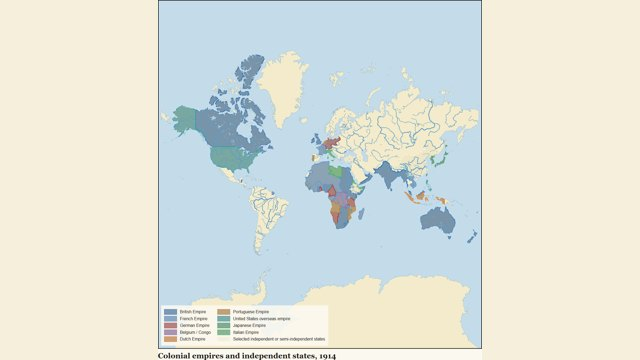
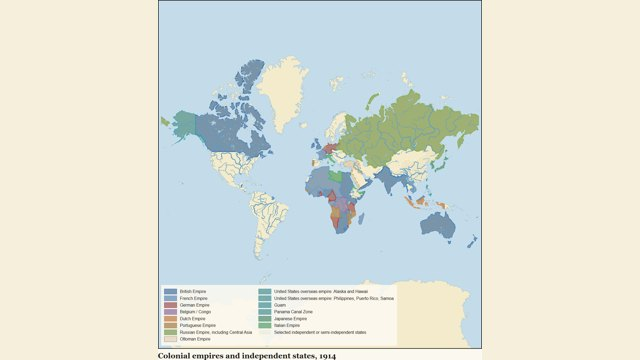
Refine imperialism round four plates
Copilot-Session: 37f2f47f-8b63-49cd-b8ce-cded564ac449

diff --git a/atlas/plates/south-africa-boer-war-union-1899-1913.js b/atlas/plates/south-africa-boer-war-union-1899-1913.js
@@ -1,17 +1,35 @@
 (function(){
- const BRIT="#2f5f93", BOER="#d8a84f", LAND="#8c3b3b", ROAD="#5b4a3f";
- const reserves=[[18.8,-34.2],[20.5,-33.7],[23.3,-33.1],[25.5,-32.7],[27.5,-31.8],[29.5,-30.5],[31.2,-29.2],[31.2,-27.4],[29.7,-28.5],[27.0,-30.0],[24.0,-30.8],[21.0,-31.8],[18.8,-34.2]];
- window.PLATES["south-africa-boer-war-union-1899-1913"]={id:"south-africa-boer-war-union-1899-1913",title:"South Africa: Boer War, Union and land, 1899-1913",head:"Imperialism / South Africa",folio:"102-103",viewer:"imperial/1902/ch-south-africa-boer-war",figures:[{caption:"British colonies, Boer republics and the war",share:0.76,extent:[[15,-36],[33,-21]],projection:"conic",layers:[
-  {id:"cape",type:"area",hist:{year:1900,names:["Cape Colony","Natal"]},colour:BRIT,tier:"core",legend:"British colonies"},
-  {id:"boer",type:"area",hist:{year:1900,names:["Transvaal","Orange Free State"]},colour:BOER,tier:"core",legend:"Boer republics"},
-  {id:"union",type:"area",hist:{year:1914,names:["South Africa"]},fillOpacity:0.16,stroke:BRIT,colour:BRIT,legend:"Union of South Africa, 1910"},
-  {id:"land",type:"area",polygon:reserves,smooth:false,clipToLand:true,pattern:"hatch",colour:LAND,legend:"Natives Land Act reserve belt, 1913 (schematic)"},
-  {id:"brit-advance",type:"route",style:"road",weight:2.5,colour:ROAD,legend:"British advance",path:[[18.42,-33.92],[24.76,-28.74],[26.22,-29.12],[28.19,-25.75]]},
-  {id:"guerrilla",type:"route",style:"dotted",weight:2.2,colour:BOER,legend:"Boer guerrilla phase",path:[[28.19,-25.75],[29.0,-26.6],[26.5,-29.0],[25.7,-30.7],[27.9,-26.2]]},
+ const BRIT="#2f5f93", BOER="#d8a84f", PROT="#8cae7a", LAND="#8c3b3b", ROAD="#5b4a3f";
+ const transkei=[[27.0,-32.6],[29.6,-32.1],[30.4,-31.1],[29.0,-30.5],[27.2,-31.2],[27.0,-32.6]];
+ const ciskei=[[26.7,-33.1],[28.0,-32.9],[28.4,-32.2],[27.3,-32.0],[26.5,-32.5],[26.7,-33.1]];
+ const zululand=[[30.0,-29.4],[31.7,-28.9],[31.6,-27.2],[30.4,-27.0],[29.8,-28.2],[30.0,-29.4]];
+ const venda=[[29.5,-23.3],[31.0,-23.0],[31.3,-22.0],[30.0,-21.8],[29.2,-22.5],[29.5,-23.3]];
+ const pedi=[[29.0,-25.2],[30.5,-25.0],[30.6,-24.2],[29.4,-24.0],[28.8,-24.6],[29.0,-25.2]];
+ const tswana=[[23.0,-27.8],[25.2,-27.3],[25.1,-26.1],[23.4,-25.8],[22.5,-26.6],[23.0,-27.8]];
+ window.PLATES["south-africa-boer-war-union-1899-1913"]={id:"south-africa-boer-war-union-1899-1913",title:"South Africa: Boer War, Union and land, 1899-1913",head:"Imperialism / South Africa",folio:"102-103",viewer:"imperial/1902/ch-south-africa-boer-war",figures:[{caption:"1899: British colonies, Boer republics and protectorates",share:0.50,extent:[[15,-36],[33,-21]],projection:"conic",layers:[
+  {id:"cape",type:"area",hist:{year:1900,names:["Cape Colony","Natal"]},colour:BRIT,tier:"core",legend:"British colonies: Cape Colony and Natal"},
+  {id:"boer",type:"area",hist:{year:1900,names:["Transvaal","Orange Free State"]},colour:BOER,tier:"core",legend:"Boer republics: ZAR and Orange Free State"},
+  {id:"basuto",type:"area",hist:{year:1900,names:["Basutoland"]},colour:PROT,tier:"influence",legend:"British protectorate: Basutoland"},
+  {id:"bechu",type:"point",symbol:"treaty",colour:PROT,at:[24.0,-24.5],name:"Bechuanaland Protectorate",labelPos:"w"},
+  {id:"advance",type:"route",style:"road",weight:2.5,colour:ROAD,legend:"British advance, Feb-Jun 1900",path:[[18.42,-33.92],[24.76,-28.74],[26.22,-29.12],[28.04,-26.20],[28.19,-25.75]]},
+  {id:"kimberley",type:"point",symbol:"siege",at:[24.76,-28.74],name:"Kimberley relieved",labelPos:"w",tag:{text:"Feb 1900",colour:"#e8806a"}},
+  {id:"ladysmith",type:"point",symbol:"siege",at:[29.78,-28.56],name:"Ladysmith relieved",labelPos:"e",tag:{text:"Feb 1900",colour:"#e8806a"}},
+  {id:"mafeking",type:"point",symbol:"siege",at:[25.64,-25.86],name:"Mafeking relieved",labelPos:"w",tag:{text:"May 1900",colour:"#e8806a"}},
+  {id:"bloem",type:"point",symbol:"capital",at:[26.22,-29.12],name:"Bloemfontein",labelPos:"s",tag:{text:"Mar 1900",colour:"#f1c75b"}},
+  {id:"johannesburg",type:"point",symbol:"city",at:[28.04,-26.20],name:"Johannesburg",labelPos:"s"},
+  {id:"pretoria",type:"point",symbol:"capital",at:[28.19,-25.75],name:"Pretoria",labelPos:"n",tag:{text:"Jun 1900",colour:"#f1c75b"}},
+  {id:"camp-bloem",type:"point",symbol:"power",colour:LAND,at:[26.22,-29.12],name:"camp: Bloemfontein",labelPos:"e"},
+  {id:"camp-kroon",type:"point",symbol:"power",colour:LAND,at:[27.23,-27.65],name:"camp: Kroonstad",labelPos:"e"},
+  {id:"camp-stand",type:"point",symbol:"power",colour:LAND,at:[29.24,-26.94],name:"camp: Standerton",labelPos:"e"}
+ ],legend:{position:"bottom-left",columns:1}},{caption:"1910 Union and 1913 scheduled reserve areas",share:0.50,extent:[[15,-36],[33,-21]],projection:"conic",layers:[
+  {id:"union",type:"area",hist:{year:1914,names:["South Africa"]},colour:BRIT,tier:"core",legend:"Union of South Africa, 1910"},
+  {id:"reserve-transkei",type:"area",polygon:transkei,smooth:false,clipToLand:true,pattern:"hatch",colour:LAND,legend:"Scheduled reserves, 1913: scattered areas"},
+  {id:"reserve-ciskei",type:"area",polygon:ciskei,smooth:false,clipToLand:true,pattern:"hatch",colour:LAND},
+  {id:"reserve-zulu",type:"area",polygon:zululand,smooth:false,clipToLand:true,pattern:"hatch",colour:LAND},
+  {id:"reserve-venda",type:"area",polygon:venda,smooth:false,clipToLand:true,pattern:"hatch",colour:LAND},
+  {id:"reserve-pedi",type:"area",polygon:pedi,smooth:false,clipToLand:true,pattern:"hatch",colour:LAND},
+  {id:"reserve-tswana",type:"area",polygon:tswana,smooth:false,clipToLand:true,pattern:"hatch",colour:LAND},
   {id:"cape-town",type:"point",symbol:"port",at:[18.42,-33.92],name:"Cape Town",labelPos:"e"},
-  {id:"bloem",type:"point",symbol:"capital",at:[26.22,-29.12],name:"Bloemfontein",labelPos:"w",tag:{text:"1900",colour:"#e8806a"}},
-  {id:"pretoria",type:"point",symbol:"capital",at:[28.19,-25.75],name:"Pretoria",labelPos:"e",tag:{text:"1900",colour:"#e8806a"}},
-  {id:"mafeking",type:"point",symbol:"battle",at:[25.64,-25.86],name:"Mafeking",labelPos:"w"},
-  {id:"camps",type:"point",symbol:"battle",at:[27.7,-27.7],name:"concentration camps",labelPos:"e",tag:{text:"Boer + African civilians",colour:"#e8806a"}}
- ],legend:{position:"bottom-left",columns:1}},{caption:"From war to white union",kind:"diagram",share:0.24,diagram:{height:0.62,nodes:[{id:"war",label:"1899-1902 Boer War",x:0.27,y:0.10,w:0.33,h:0.13,colour:BOER,strong:true},{id:"camps2",label:"camps hold Boer and African civilians",x:0.73,y:0.10,w:0.34,h:0.13,colour:LAND},{id:"union2",label:"1910 Union under white franchise",x:0.50,y:0.42,w:0.64,h:0.13,colour:BRIT,strong:true},{id:"land2",label:"1913 Land Act restricts African landholding",x:0.50,y:0.72,w:0.68,h:0.13,colour:LAND}],arrows:[{id:"a1",from:"war",to:"union2"},{id:"a2",from:"camps2",to:"union2"},{id:"a3",from:"union2",to:"land2"}]}} ],text:{intro:"South Africa links imperial war to a state structure that later hardened into apartheid.",sections:[{heading:"War and settlement",entries:[{date:"1899-1902",text:"Britain defeats the Transvaal and Orange Free State. The war includes sieges, guerrilla fighting and concentration camps for Boer and African civilians.",refs:["cape","boer","brit-advance","guerrilla","cape-town","bloem","pretoria","mafeking","camps","war","camps2"]},{date:"1910-1913",text:"Union joins the colonies and former republics under white political control; the Natives Land Act sharply limits African landholding.",refs:["union","land","union2","land2"]}]}]},sources:["Penguin Atlas Vol. 2 pp. 102-103; historical-basemaps world_1900 and world_1914"]};
+  {id:"pretoria2",type:"point",symbol:"capital",at:[28.19,-25.75],name:"Pretoria",labelPos:"e"}
+ ],legend:{position:"bottom-left",columns:1}} ],text:{intro:"South Africa links imperial war to a state structure that later hardened into apartheid.",sections:[{heading:"War and settlement",entries:[{date:"1899-1902",text:"In 1899 British Cape Colony and Natal faced the Transvaal and Orange Free State, with Basutoland filled from the 1900 historical layer and Bechuanaland marked as a protectorate label because the layer has no separate polygon. British columns relieved Kimberley, Ladysmith and Mafeking before taking Bloemfontein, Johannesburg and Pretoria.",refs:["cape","boer","basuto","bechu","advance","kimberley","ladysmith","mafeking","bloem","johannesburg","pretoria"]},{date:"1900-1902",text:"Concentration camps for Boer and African civilians are marked at Bloemfontein, Kroonstad and Standerton with a distinct camp symbol rather than battle marks.",refs:["camp-bloem","camp-kroon","camp-stand"]},{date:"1910-1913",text:"Union joins the four provinces under white political control; the Natives Land Act schedules scattered reserve areas including Transkei, Ciskei, Zululand, northern Transvaal and the Bechuanaland border.",refs:["union","reserve-transkei","reserve-ciskei","reserve-zulu","reserve-venda","reserve-pedi","reserve-tswana","cape-town","pretoria2"]}]}]},sources:["Penguin Atlas Vol. 2 pp. 102-103; historical-basemaps world_1900 and world_1914"]};
 })();

diff --git a/atlas/plates/balkan-crises-1908-1913.js b/atlas/plates/balkan-crises-1908-1913.js
@@ -1,27 +1,35 @@
 (function(){
- const AUS="#d8a84f", SER="#b36b2e", BUL="#3f8f5b", GRE="#4c78a8", OTT="#9a6a32", WAR="#8c3b3b", ROAD="#5b4a3f";
+ const AUS="#d8a84f", SER="#b36b2e", BUL="#3f8f5b", GRE="#4c78a8", OTT="#9a6a32", ALB="#8cae7a", WAR="#8c3b3b", ROAD="#5b4a3f";
+ const ottEurope1908=[[19.0,42.6],[20.6,42.5],[22.5,42.3],[24.5,42.35],[28.9,42.2],[28.9,40.7],[26.3,40.4],[24.3,40.1],[22.4,39.7],[20.0,39.2],[19.0,40.4],[19.0,42.6]];
+ const greece1908=[[19.5,39.95],[21.4,39.95],[23.6,40.1],[23.8,36.0],[19.5,36.0],[19.5,39.95]];
  const macedonia=[[20.7,42.4],[22.0,42.3],[23.4,42.0],[24.2,41.6],[23.8,40.8],[22.7,40.3],[21.5,40.5],[20.6,41.2],[20.7,42.4]];
+ const southDobruja=[[27.4,44.2],[28.7,44.1],[28.7,43.6],[27.5,43.5],[27.4,44.2]];
  window.PLATES["balkan-crises-1908-1913"]={id:"balkan-crises-1908-1913",title:"The Balkan crises, 1908-1913",head:"Imperialism / Balkans",folio:"120-121",viewer:"imperial/1913/ch-balkan-crises",figures:[{caption:"1908: annexation crisis and Ottoman Europe",share:0.50,extent:[[12,35],[31,48]],projection:"conic",layers:[
-  {id:"austria",type:"area",hist:{year:1914,names:["Austro-Hungarian Empire"]},colour:AUS,tier:"influence",legend:"Austria-Hungary"},
-  {id:"ottoman-1908",type:"area",hist:{year:1914,names:["Ottoman Empire"]},colour:OTT,tier:"influence",legend:"Ottoman Empire"},
-  {id:"serbia-1908",type:"area",hist:{year:1914,names:["Serbia","Montenegro","Romania"]},colour:SER,tier:"core",legend:"Serbia, Montenegro, Romania"},
-  {id:"bulgaria-1908",type:"area",hist:{year:1914,names:["Bulgaria"]},colour:BUL,tier:"core",legend:"Bulgaria"},
-  {id:"greece-1908",type:"area",hist:{year:1914,names:["Greece"]},colour:GRE,tier:"core",legend:"Greece"},
-  {id:"bosnia",type:"point",symbol:"treaty",at:[18.41,43.86],name:"Bosnia annexed",labelPos:"n",tag:{text:"1908",colour:"#f1c75b"}},
-  {id:"sarajevo",type:"point",symbol:"capital",at:[18.41,43.86],name:"Sarajevo",labelPos:"w"},
+  {id:"austria",type:"area",hist:{year:1900,names:["Austria Hungary"]},colour:AUS,tier:"influence",legend:"Austria-Hungary"},
+  {id:"bosnia",type:"area",hist:{year:1900,names:["Bosnia-Herzegovina"]},pattern:"hatch",colour:AUS,legend:"Bosnia-Herzegovina annexed, 1908"},
+  {id:"ottoman-1908",type:"area",hist:{year:1900,names:["Ottoman Empire"]},clipPolygon:ottEurope1908,colour:OTT,tier:"core",legend:"Ottoman Europe: Albania, Kosovo, Macedonia, Epirus and Thrace"},
+  {id:"serbia-1908",type:"area",hist:{year:1900,names:["Serbia","Montenegro","Romania"]},colour:SER,tier:"core",legend:"Serbia, Montenegro, Romania before the Balkan Wars"},
+  {id:"bulgaria-1908",type:"area",hist:{year:1900,names:["Bulgaria"]},colour:BUL,tier:"core",legend:"Bulgaria before the Balkan Wars"},
+  {id:"greece-1908",type:"area",hist:{year:1900,names:["Greece"]},clipPolygon:greece1908,colour:GRE,tier:"core",legend:"Greece before Epirus and Macedonia"},
+  {id:"sarajevo",type:"point",symbol:"treaty",at:[18.41,43.86],name:"Bosnia annexed",labelPos:"n",tag:{text:"1908",colour:"#f1c75b"}},
   {id:"belgrade",type:"point",symbol:"capital",at:[20.46,44.82],name:"Belgrade",labelPos:"e"},
+  {id:"sofia-1908",type:"point",symbol:"capital",at:[23.32,42.70],name:"Sofia",labelPos:"s"},
+  {id:"athens-1908",type:"point",symbol:"capital",at:[23.73,37.98],name:"Athens",labelPos:"e"},
   {id:"istanbul",type:"point",symbol:"capital",at:[28.98,41.01],name:"Constantinople",labelPos:"w"}
- ],legend:{position:"bottom-left",columns:1}},{caption:"1912-13: two Balkan Wars",share:0.50,extent:[[12,35],[31,48]],projection:"conic",layers:[
+ ],legend:{position:"bottom-left",columns:1}},{caption:"1912-13: Balkan Wars and the new settlement",share:0.50,extent:[[12,35],[31,48]],projection:"conic",layers:[
   {id:"ottoman",type:"area",hist:{year:1914,names:["Ottoman Empire"]},colour:OTT,tier:"influence",legend:"Ottoman remnant in Europe"},
-  {id:"serbia",type:"area",hist:{year:1914,names:["Serbia","Montenegro"]},colour:SER,tier:"core",legend:"Serbia and Montenegro"},
-  {id:"bulgaria",type:"area",hist:{year:1914,names:["Bulgaria"]},colour:BUL,tier:"core",legend:"Bulgaria"},
-  {id:"greece",type:"area",hist:{year:1914,names:["Greece"]},colour:GRE,tier:"core",legend:"Greece"},
-  {id:"macedonia",type:"area",polygon:macedonia,smooth:false,clipToLand:true,pattern:"hatch",colour:WAR,legend:"Macedonia contested by the victors"},
-  {id:"league",type:"route",style:"road",weight:2.4,colour:ROAD,legend:"Balkan League advance, 1912",path:[[23.32,42.70],[24.75,42.13],[26.56,41.68],[28.98,41.01]]},
-  {id:"second",type:"route",style:"dashed",weight:2.4,colour:WAR,legend:"Second Balkan War, 1913",path:[[23.32,42.70],[22.93,41.99],[20.46,44.82],[23.73,37.98]]},
+  {id:"serbia",type:"area",hist:{year:1914,names:["Serbia","Montenegro","Romania"]},colour:SER,tier:"core",legend:"Serbia, Montenegro and Romania, 1914"},
+  {id:"bulgaria",type:"area",hist:{year:1914,names:["Bulgaria"]},colour:BUL,tier:"core",legend:"Bulgaria, 1914"},
+  {id:"greece",type:"area",hist:{year:1914,names:["Greece"]},colour:GRE,tier:"core",legend:"Greece, 1914"},
+  {id:"albania",type:"area",hist:{year:1914,names:["Albania"]},colour:ALB,tier:"core",legend:"Albania independent, 1912"},
+  {id:"macedonia-loss",type:"area",polygon:macedonia,smooth:false,clipToLand:true,pattern:"hatch",colour:WAR,legend:"Bulgarian losses in Macedonia, 1913"},
+  {id:"dobruja-loss",type:"area",polygon:southDobruja,smooth:false,clipToLand:true,pattern:"hatch",colour:WAR,legend:"Southern Dobruja to Romania, 1913"},
+  {id:"serb-advance",type:"route",style:"road",weight:2.2,colour:ROAD,legend:"Balkan League advances on Ottoman Europe",path:[[20.46,44.82],[21.43,41.99],[22.94,40.64]]},
+  {id:"bulgar-advance",type:"route",style:"road",weight:2.2,colour:ROAD,path:[[23.32,42.70],[26.56,41.68],[28.98,41.01]]},
+  {id:"greek-advance",type:"route",style:"road",weight:2.2,colour:ROAD,path:[[23.73,37.98],[22.94,40.64]]},
   {id:"sofia",type:"point",symbol:"capital",at:[23.32,42.70],name:"Sofia",labelPos:"n"},
   {id:"adrianople",type:"point",symbol:"battle",at:[26.56,41.68],name:"Adrianople",labelPos:"e",tag:{text:"1913",colour:"#e8806a"}},
   {id:"skopje",type:"point",symbol:"battle",at:[21.43,41.99],name:"Skopje",labelPos:"w"},
   {id:"salonika",type:"point",symbol:"port",at:[22.94,40.64],name:"Salonika",labelPos:"e",tag:{text:"1912",colour:"#f1c75b"}}
- ],legend:{position:"bottom-left",columns:1}} ],text:{intro:"The Balkan crises begin with the Bosnian annexation and end with Ottoman Europe reduced and the Balkan victors fighting over Macedonia.",sections:[{heading:"Crises",entries:[{date:"1908",text:"Austria-Hungary annexes Bosnia-Herzegovina, angering Serbia and unsettling the post-Berlin order around Serbia, Bulgaria, Greece and the Ottoman Empire.",refs:["austria","ottoman-1908","serbia-1908","bulgaria-1908","greece-1908","bosnia","sarajevo","belgrade","istanbul"]},{date:"1912-1913",text:"The Balkan League defeats the Ottoman Empire; then Bulgaria, Serbia, Greece and Montenegro fight each other over Macedonia and the settlement.",refs:["ottoman","serbia","bulgaria","greece","league","second","macedonia","sofia","adrianople","skopje","salonika"]}]}]},sources:["Penguin Atlas Vol. 2 pp. 120-121; historical-basemaps world_1914"]};
+ ],legend:{position:"bottom-left",columns:1}}],text:{intro:"The Balkan crises begin with the Bosnian annexation and end with Ottoman Europe reduced and the Balkan victors fighting over Macedonia.",sections:[{heading:"Crises",entries:[{date:"1908",text:"In 1908 the Ottomans still held Albania, Kosovo, Macedonia, Epirus and Thrace; Austria-Hungary annexed Bosnia-Herzegovina while Serbia, Bulgaria and Greece remained within their pre-war borders.",refs:["austria","bosnia","ottoman-1908","serbia-1908","bulgaria-1908","greece-1908","sarajevo","belgrade","sofia-1908","athens-1908","istanbul"]},{date:"1912-1913",text:"The Balkan League advances from Serbia, Bulgaria and Greece into Ottoman Europe. Albania becomes independent, while Bulgaria loses Macedonia to Serbia and Greece and Southern Dobruja to Romania.",refs:["ottoman","serbia","bulgaria","greece","albania","macedonia-loss","dobruja-loss","serb-advance","bulgar-advance","greek-advance","sofia","adrianople","skopje","salonika"]}]}]},sources:["Penguin Atlas Vol. 2 pp. 120-121; historical-basemaps world_1900 and world_1914"]};
 })();

diff --git a/atlas/plates/colonial-empires-world-1914.js b/atlas/plates/colonial-empires-world-1914.js
@@ -1,15 +1,22 @@
 (function(){
- const BRIT="#2f5f93", FRA="#4c78a8", GER="#8c3b3b", BEL="#7a5a8c", DUT="#b36b2e", POR="#9a6a32", USA="#2f7f86", JPN="#387a5b", ITA="#3f8f5b", FREE="#d8d0b0";
- window.PLATES["colonial-empires-world-1914"]={id:"colonial-empires-world-1914",title:"The world's colonial empires in 1914",head:"Imperialism / world empires",folio:"98-99",viewer:"imperial/1914/part-colonial-empires",figures:[{caption:"Colonial empires and independent states, 1914",share:0.76,extent:[[-180,-55],[180,75]],projection:"equalEarth",layers:[
+ const BRIT="#2f5f93", FRA="#4c78a8", GER="#8c3b3b", BEL="#7a5a8c", DUT="#b36b2e", POR="#9a6a32", USA="#2f7f86", JPN="#387a5b", ITA="#3f8f5b", RUS="#6b8c3f", OTT="#9a6a32", FREE="#d8d0b0";
+ const canal=[[-80.1,9.4],[-79.2,9.4],[-79.2,8.7],[-80.1,8.7],[-80.1,9.4]];
+ const guam=[[144.5,13.7],[144.9,13.7],[144.9,13.2],[144.5,13.2],[144.5,13.7]];
+ window.PLATES["colonial-empires-world-1914"]={id:"colonial-empires-world-1914",title:"The world's colonial empires in 1914",head:"Imperialism / world empires",folio:"98-99",viewer:"imperial/1914/part-colonial-empires",figures:[{caption:"Colonial empires and independent states, 1914",share:0.76,extent:[[-180,-56],[180,78]],projection:"equalEarth",layers:[
   {id:"british",type:"area",hist:{year:1914,names:["United Kingdom of Great Britain and Ireland","Canada","Australia","New Zealand","South Africa","British Raj","British East Africa","British Somaliland","Anglo-Egyptian Sudan","Egypt","Nigeria","Gold Coast","Sierra Leone","Gambia, The","Uganda","Rhodesia","Malaya","Hong Kong","Ceylon","Fiji","Malta","Belize"]},colour:BRIT,tier:"core",legend:"British Empire"},
   {id:"french",type:"area",hist:{year:1914,names:["France","Algeria","Tunisia","Morocco","French West Africa","French Equatorial Africa","Madagascar (France)","French Indochina","French Guiana"]},colour:FRA,tier:"core",legend:"French Empire"},
   {id:"german",type:"area",hist:{year:1914,names:["German Empire","German South-West Africa","German E. Africa (Tanganyika)","Kamerun","Togoland","Samoa"]},colour:GER,tier:"core",legend:"German Empire"},
   {id:"belgian",type:"area",hist:{year:1914,names:["Belgium","Belgian Congo"]},colour:BEL,tier:"core",legend:"Belgium / Congo"},
   {id:"dutch",type:"area",hist:{year:1914,names:["Netherlands","Netherlands Indies","Netherlands Antilles"]},colour:DUT,tier:"core",legend:"Dutch Empire"},
   {id:"portuguese",type:"area",hist:{year:1914,names:["Portugal","Angola","Mozambique","Portuguese Guinea"]},colour:POR,tier:"core",legend:"Portuguese Empire"},
-  {id:"us",type:"area",hist:{year:1914,names:["United States","Philippines","Puerto Rico","American Samoa"]},colour:USA,tier:"core",legend:"United States overseas empire"},
+  {id:"russia",type:"area",hist:{year:1914,names:["Russian Empire"]},colour:RUS,tier:"core",legend:"Russian Empire, including Central Asia"},
+  {id:"ottoman",type:"area",hist:{year:1914,names:["Ottoman Empire"]},colour:OTT,tier:"influence",legend:"Ottoman Empire"},
+  {id:"us-ak-hi",type:"area",regions:["US-AK","US-HI"],colour:USA,tier:"core",legend:"United States overseas empire: Alaska and Hawaii"},
+  {id:"us-overseas",type:"area",hist:{year:1914,names:["Philippines","Puerto Rico","American Samoa"]},colour:USA,tier:"core",legend:"United States overseas empire: Philippines, Puerto Rico, Samoa"},
+  {id:"guam",type:"area",polygon:guam,smooth:false,clipToLand:true,colour:USA,tier:"core",legend:"Guam"},
+  {id:"canal-zone",type:"area",polygon:canal,smooth:false,clipToLand:true,colour:USA,tier:"core",legend:"Panama Canal Zone"},
   {id:"japan",type:"area",hist:{year:1914,names:["Empire of Japan"]},colour:JPN,tier:"core",legend:"Japanese Empire"},
   {id:"italy",type:"area",hist:{year:1914,names:["Kingdom of Italy","Libya","Eritrea","Italian Somaliland"]},colour:ITA,tier:"core",legend:"Italian Empire"},
-  {id:"independent",type:"area",hist:{year:1914,names:["Abyssinia","Liberia","Ottoman Empire","Manchu Empire"]},colour:FREE,tier:"influence",legend:"Selected independent or semi-independent states"}
- ],legend:{position:"bottom-left",columns:2}},{caption:"Imperial rule was not one thing",kind:"diagram",share:0.24,diagram:{height:0.62,nodes:[{id:"settler",label:"settler dominions: Canada, Australia, South Africa",x:0.26,y:0.10,w:0.38,h:0.13,colour:BRIT},{id:"raj",label:"bureaucratic empire: India, railways and famine",x:0.73,y:0.10,w:0.36,h:0.13,colour:BRIT},{id:"terror",label:"extreme violence: Congo rubber; Herero and Nama genocide",x:0.50,y:0.40,w:0.76,h:0.13,colour:GER,strong:true},{id:"late",label:"late empires: U.S., Japan, Italy",x:0.50,y:0.70,w:0.52,h:0.13,colour:JPN}]}}],text:{intro:"The 1914 world map shows empire at its widest formal extent, but the legal and lived forms of rule differed sharply.",sections:[{heading:"Empires",entries:[{date:"1914",text:"British, French, German, Belgian, Dutch, Portuguese, U.S., Japanese and Italian empires are shown as separate systems rather than one colonial colour.",refs:["british","french","german","belgian","dutch","portuguese","us","japan","italy","independent"]},{date:"1914",text:"Settler dominions, bureaucratic India, concessionary violence in Congo, genocidal war in German South-West Africa and newer U.S./Japanese/Italian empires were different forms of imperial power.",refs:["settler","raj","terror","late"]}]}]},sources:["Penguin Atlas Vol. 2 pp. 98-99; historical-basemaps world_1914"]};
+  {id:"independent",type:"area",hist:{year:1914,names:["Abyssinia","Liberia","Manchu Empire"]},colour:FREE,tier:"influence",legend:"Selected independent or semi-independent states"}
+ ],legend:{position:"bottom-left",columns:2}},{caption:"Approx. share of world land area by empire, 1914",kind:"diagram",share:0.24,diagram:{height:0.62,nodes:[{id:"british-share",label:"British Empire approx. 23%",x:0.50,y:0.18,w:0.76,h:0.13,colour:BRIT,strong:true},{id:"russian-share",label:"Russian Empire approx. 17%",x:0.42,y:0.40,w:0.56,h:0.13,colour:RUS,strong:true},{id:"french-share",label:"French Empire approx. 9%",x:0.32,y:0.62,w:0.34,h:0.13,colour:FRA},{id:"note-share",label:"rough shares; land empires and overseas empires shown together",x:0.50,y:0.84,w:0.72,h:0.10,colour:FREE}]}}],text:{intro:"The 1914 world map shows empire at its widest formal extent, but the legal and lived forms of rule differed sharply.",sections:[{heading:"Empires",entries:[{date:"1914",text:"British, French, Russian, Ottoman, German, Belgian, Dutch, Portuguese, U.S., Japanese and Italian empires are shown as separate systems rather than one colonial colour.",refs:["british","french","russia","ottoman","german","belgian","dutch","portuguese","us-ak-hi","us-overseas","guam","canal-zone","japan","italy","independent"]},{date:"1914",text:"Approximate land-area shares put Britain near 23%, Russia near 17% and France near 9%; the diagram labels them as rough figures.",refs:["british-share","russian-share","french-share","note-share"]}]}]},sources:["Penguin Atlas Vol. 2 pp. 98-99; historical-basemaps world_1914"]};
 })();

diff --git a/atlas/plates/scramble-for-africa-1880-1914.js b/atlas/plates/scramble-for-africa-1880-1914.js
@@ -1,6 +1,6 @@
 (function(){
  const BRIT="#2f5f93", FRA="#4c78a8", GER="#8c3b3b", BEL="#7a5a8c", POR="#9a6a32", ITA="#3f8f5b", FREE="#7a6b42", ROAD="#5b4a3f";
- window.PLATES["scramble-for-africa-1880-1914"]={id:"scramble-for-africa-1880-1914",title:"The Scramble for Africa, 1880-1914",head:"Imperialism / Africa",folio:"98-99",viewer:"imperial/1900/ch-scramble-africa",figures:[{caption:"Africa before and after the scramble",kind:"small-multiples",share:0.76,extent:[[-20,-35],[55,38]],projection:"mercator",layers:[{id:"load-1880",type:"area",hist:{year:1880,names:["Egypt"]},colour:FREE,opacity:0,edge:false},{id:"load-1914",type:"area",hist:{year:1914,names:["Egypt"]},colour:FREE,opacity:0,edge:false}],panelAspect:0.95,panels:[{caption:"1880: before formal partition",layers:[
+ window.PLATES["scramble-for-africa-1880-1914"]={id:"scramble-for-africa-1880-1914",title:"The Scramble for Africa, 1880-1914",head:"Imperialism / Africa",folio:"98-99",viewer:"imperial/1900/ch-scramble-africa",figures:[{caption:"Africa before and after the scramble; Berlin Conference note, 1884-85",kind:"small-multiples",share:0.76,extent:[[-20,-35],[55,38]],projection:"mercator",layers:[{id:"load-1880",type:"area",hist:{year:1880,names:["Egypt"]},colour:FREE,opacity:0,edge:false},{id:"load-1914",type:"area",hist:{year:1914,names:["Egypt"]},colour:FREE,opacity:0,edge:false}],panelAspect:0.95,panels:[{caption:"1880: before formal partition",layers:[
   {id:"af-1880",type:"area",hist:{year:1880,names:["Egypt","Ethiopia","Sokoto Caliphate","Tukular Caliphate","Asante","Dahomey","Liberia","Kanem-Bornu","Buganda","Sultanate of Zanzibar","Zululand","Transvaal","Orange Free State"]},colour:FREE,tier:"core",legend:"African states and settler republics"},
   {id:"eu-1880",type:"area",hist:{year:1880,names:["Algeria (FR)","Cape Colony","Natal","Angola (Portugal)","Mozambique","Portuguese Guinea"]},colour:BRIT,tier:"influence",legend:"Older European holdings"}
 ]},{caption:"1914: partitioned continent",layers:[
@@ -12,12 +12,9 @@
   {id:"italian-africa",type:"area",hist:{year:1914,names:["Libya","Eritrea","Italian Somaliland"]},colour:ITA,tier:"core",legend:"Italian Africa"},
   {id:"free-africa",type:"area",hist:{year:1914,names:["Abyssinia","Liberia"]},colour:FREE,tier:"core",legend:"Ethiopia and Liberia"},
   {id:"congo-terror",type:"area",hist:{year:1914,names:["Belgian Congo"]},pattern:"hatch",colour:BEL,legend:"Congo rubber terror under Leopold's regime"},
-  {id:"gswa-genocide",type:"area",hist:{year:1914,names:["German South-West Africa"]},pattern:"crosshatch",colour:GER,legend:"Herero and Nama genocide, 1904-08"}
-]}],legend:{position:"bottom-left",columns:1}},{caption:"Crises and battles",share:0.24,extent:[[-20,-35],[55,38]],projection:"mercator",layers:[
-  {id:"berlin",type:"point",symbol:"treaty",at:[13.40,52.52],name:"Berlin Conference",tag:{text:"1884-85",colour:"#f1c75b"}},
+  {id:"gswa-genocide",type:"area",hist:{year:1914,names:["German South-West Africa"]},pattern:"crosshatch",colour:GER,legend:"Herero and Nama genocide, 1904-08"},
   {id:"fashoda",type:"point",symbol:"battle",at:[32.12,9.88],name:"Fashoda",labelPos:"w",tag:{text:"1898",colour:"#e8806a"}},
   {id:"adwa",type:"point",symbol:"battle",at:[38.97,14.03],name:"Adwa",labelPos:"e",tag:{text:"1896",colour:"#e8806a"}},
-  {id:"boer",type:"point",symbol:"battle",at:[28.19,-25.75],name:"Boer War",tag:{text:"1899-1902",colour:"#e8806a"}},
-  {id:"cape-cairo",type:"route",style:"dotted",colour:ROAD,legend:"British Cape-to-Cairo idea",path:[[18.42,-33.92],[28.19,-25.75],[31.24,30.04]]}
-],legend:{position:"bottom-left",columns:1}}],text:{intro:"The scramble is easiest to see as a before-and-after: a continent of African states and older coastal holdings in 1880 becomes mostly formal European empire by 1914.",sections:[{heading:"Partition",entries:[{date:"1880",text:"Before partition, African states and settler republics remain visible alongside older coastal and settler colonies.",refs:["af-1880","eu-1880"]},{date:"1914",text:"British, French, German, Belgian, Portuguese and Italian African empires are shown from the 1914 historical layer, with Ethiopia and Liberia outside formal colonization.",refs:["british-africa","french-africa","german-africa","belgian-congo","portuguese-africa","italian-africa","free-africa"]},{date:"1885-1908",text:"Leopold's Congo rubber terror and the Herero and Nama genocide in German South-West Africa are marked as extreme cases, not the whole story of empire.",refs:["congo-terror","gswa-genocide"]},{date:"1884-1902",text:"Berlin, Fashoda, Adwa and the Boer War show diplomacy, rivalry and African military resistance.",refs:["berlin","fashoda","adwa","boer","cape-cairo"]}]}]},sources:["Penguin Atlas Vol. 2 pp. 98-99; historical-basemaps world_1880 and world_1914"]};
+  {id:"boer",type:"point",symbol:"battle",at:[28.19,-25.75],name:"Boer War",labelPos:"e",tag:{text:"1899-1902",colour:"#e8806a"}}
+]}],legend:{position:"bottom-left",columns:1}}],text:{intro:"The scramble is easiest to see as a before-and-after: a continent of African states and older coastal holdings in 1880 becomes mostly formal European empire by 1914.",sections:[{heading:"Partition",entries:[{date:"1880",text:"Before partition, African states and settler republics remain visible alongside older coastal and settler colonies.",refs:["af-1880","eu-1880"]},{date:"1914",text:"British, French, German, Belgian, Portuguese and Italian African empires are shown from the 1914 historical layer, with Ethiopia and Liberia outside formal colonization.",refs:["british-africa","french-africa","german-africa","belgian-congo","portuguese-africa","italian-africa","free-africa"]},{date:"1885-1908",text:"Leopold's Congo rubber terror and the Herero and Nama genocide in German South-West Africa are marked as extreme cases, not the whole story of empire.",refs:["congo-terror","gswa-genocide"]},{date:"1884-1902",text:"Berlin (1884-85, noted in the figure caption), Fashoda, Adwa and the Boer War show diplomacy, rivalry and African military resistance.",refs:["fashoda","adwa","boer"]}]}]},sources:["Penguin Atlas Vol. 2 pp. 98-99; historical-basemaps world_1880 and world_1914"]};
 })();

diff --git a/atlas/plates/southeast-asia-pacific-imperialism-1880-1914.js b/atlas/plates/southeast-asia-pacific-imperialism-1880-1914.js
@@ -1,10 +1,14 @@
 (function(){
  const FRA="#4c78a8", DUT="#b36b2e", BRIT="#2f5f93", USA="#2f7f86", GER="#8c3b3b", ROAD="#5b4a3f";
+ const germanNg=[[141,-2],[154,-2],[154,-6.9],[147,-6.9],[141,-5.2],[141,-2]];
+ const britishPapua=[[141,-5.2],[147,-6.9],[154,-6.9],[154,-11],[141,-11],[141,-5.2]];
  window.PLATES["southeast-asia-pacific-imperialism-1880-1914"]={id:"southeast-asia-pacific-imperialism-1880-1914",title:"Southeast Asia and the Pacific, 1880-1914",head:"Imperialism / Southeast Asia",folio:"114-117",viewer:"imperial/1901/ch-southeast-asia-pacific",figures:[{caption:"French, Dutch, British, U.S. and German holdings",share:0.76,extent:[[92,-13],[165,24]],projection:"mercator",layers:[
   {id:"french-indo",type:"area",hist:{year:1914,names:["French Indochina"]},colour:FRA,tier:"core",legend:"French Indochina"},
   {id:"dutch-indies",type:"area",hist:{year:1914,names:["Netherlands Indies"]},colour:DUT,tier:"core",legend:"Dutch East Indies"},
   {id:"british",type:"area",hist:{year:1914,names:["Malaya","British Protectorate"]},colour:BRIT,tier:"core",legend:"British Malaya and Borneo protectorates"},
   {id:"philippines",type:"area",hist:{year:1914,names:["Philippines"]},colour:USA,tier:"core",legend:"U.S. Philippines after 1898"},
+  {id:"german-ng",type:"area",hist:{year:1914,names:["Papua New Guinea"]},clipPolygon:germanNg,colour:GER,tier:"core",legend:"German New Guinea / Kaiser-Wilhelmsland"},
+  {id:"british-papua",type:"area",hist:{year:1914,names:["Papua New Guinea"]},clipPolygon:britishPapua,colour:BRIT,tier:"core",legend:"British Papua"},
   {id:"aceh-zone",type:"area",polygon:[[95.0,6.0],[97.0,5.5],[97.5,4.0],[96.6,2.8],[95.0,3.2],[94.7,5.0],[95.0,6.0]],smooth:false,clipToLand:true,pattern:"hatch",colour:DUT,legend:"Aceh War zone"},
   {id:"manila",type:"point",symbol:"port",at:[120.98,14.60],name:"Manila",labelPos:"e",tag:{text:"1898",colour:"#f1c75b"}},
   {id:"aceh",type:"point",symbol:"battle",at:[95.32,5.55],name:"Aceh",labelPos:"e",tag:{text:"1873-1904",colour:"#e8806a"}},
@@ -12,7 +16,6 @@
   {id:"saigon",type:"point",symbol:"port",at:[106.63,10.82],name:"Saigon",labelPos:"w"},
   {id:"hanoi",type:"point",symbol:"capital",at:[105.85,21.03],name:"Hanoi",labelPos:"s",tag:{text:"Indochina 1887",colour:"#f1c75b"}},
   {id:"singapore",type:"point",symbol:"port",at:[103.85,1.29],name:"Singapore",labelPos:"e"},
-  {id:"timor",type:"point",symbol:"port",at:[125.58,-8.56],name:"Portuguese Timor",labelPos:"e",tag:{text:"forward link",colour:"#f1c75b"}},
-  {id:"sea-lanes",type:"route",style:"dotted",weight:2.2,colour:ROAD,legend:"imperial sea lanes",path:[[103.85,1.29],[106.63,10.82],[120.98,14.60],[139.76,35.68]]}
- ],legend:{position:"bottom-left",columns:1}},{caption:"Extractive rule and reform claims",kind:"diagram",share:0.24,diagram:{height:0.58,nodes:[{id:"cult",label:"Dutch cultivation system: extraction",x:0.30,y:0.12,w:0.36,h:0.13,colour:DUT},{id:"aceh2",label:"Aceh War: long conquest",x:0.72,y:0.12,w:0.30,h:0.13,colour:DUT,strong:true},{id:"ethical",label:"1901 Ethical Policy: stated welfare mission",x:0.50,y:0.42,w:0.54,h:0.13,colour:DUT},{id:"pacific",label:"U.S. Philippines; German Pacific; Portuguese Timor",x:0.50,y:0.72,w:0.68,h:0.13,colour:USA}],arrows:[{id:"a1",from:"cult",to:"ethical"},{id:"a2",from:"aceh2",to:"ethical"}]}} ],text:{intro:"Southeast Asia shows overlapping colonial systems: French, Dutch, British, U.S., German and Portuguese.",sections:[{heading:"Southeast Asia",entries:[{date:"1887-1914",text:"French Indochina, the Dutch East Indies, British Malaya and the U.S. Philippines are drawn from the 1914 historical layer; Saigon, Hanoi, Singapore and Manila anchor the map.",refs:["french-indo","dutch-indies","british","philippines","manila","saigon","hanoi","singapore","sea-lanes","pacific"]},{date:"1873-1901",text:"Dutch rule moves from cultivation extraction through the Aceh War to the Ethical Policy's welfare language, while remaining colonial rule.",refs:["aceh-zone","aceh","batavia","cult","aceh2","ethical"]},{date:"1914",text:"Portuguese Timor is marked as a forward link for later East Timor; the map keeps this as a point because the 1914 layer does not provide a clean Timor colony polygon.",refs:["timor"]}]}]},sources:["Penguin Atlas Vol. 2 pp. 114-117; historical-basemaps world_1914"]};
+  {id:"timor",type:"point",symbol:"port",at:[125.58,-8.56],name:"Portuguese Timor",labelPos:"e",tag:{text:"forward link",colour:"#f1c75b"}}
+ ],legend:{position:"bottom-left",columns:1}},{caption:"Extractive rule and reform claims",kind:"diagram",share:0.24,diagram:{height:0.58,nodes:[{id:"cult",label:"Dutch cultivation system: extraction",x:0.30,y:0.12,w:0.36,h:0.13,colour:DUT},{id:"aceh2",label:"Aceh War: long conquest",x:0.72,y:0.12,w:0.30,h:0.13,colour:DUT,strong:true},{id:"ethical",label:"1901 Ethical Policy: stated welfare mission",x:0.50,y:0.42,w:0.54,h:0.13,colour:DUT},{id:"pacific",label:"U.S. Philippines; German Pacific; Portuguese Timor",x:0.50,y:0.72,w:0.68,h:0.13,colour:USA}],arrows:[{id:"a1",from:"cult",to:"ethical"},{id:"a2",from:"aceh2",to:"ethical"}]}}  ],text:{intro:"Southeast Asia shows overlapping colonial systems: French, Dutch, British, U.S., German and Portuguese.",sections:[{heading:"Southeast Asia",entries:[{date:"1887-1914",text:"French Indochina, the Dutch East Indies, British Malaya, British Papua, German New Guinea and the U.S. Philippines are drawn from the 1914 historical layer or clipped from it; Saigon, Hanoi, Singapore and Manila anchor the map.",refs:["french-indo","dutch-indies","british","british-papua","german-ng","philippines","manila","saigon","hanoi","singapore","pacific"]},{date:"1873-1901",text:"Dutch rule moves from cultivation extraction through the Aceh War to the Ethical Policy's welfare language, while remaining colonial rule.",refs:["aceh-zone","aceh","batavia","cult","aceh2","ethical"]},{date:"1914",text:"Portuguese Timor is marked as a forward link for later East Timor; the map keeps this as a point because the 1914 layer does not provide a clean Timor colony polygon.",refs:["timor"]}]}]},sources:["Penguin Atlas Vol. 2 pp. 114-117; historical-basemaps world_1914"]};
 })();

diff --git a/atlas/plates/united-states-overseas-west-1865-1914.js b/atlas/plates/united-states-overseas-west-1865-1914.js
@@ -1,19 +1,19 @@
 (function(){
  const USA="#2f7f86", IND="#d8a84f", WAR="#8c3b3b", ROAD="#5b4a3f";
  const plains=[[-112,49],[-96,49],[-96,34],[-105,34],[-112,40],[-112,49]];
- window.PLATES["united-states-overseas-west-1865-1914"]={id:"united-states-overseas-west-1865-1914",title:"The United States: West, 1898 and Panama, 1865-1914",head:"Imperialism / United States",folio:"116-117",viewer:"imperial/1898/ch-united-states-overseas",figures:[{caption:"Continental consolidation and overseas empire",share:0.76,extent:[[-170,5],[-60,72]],projection:"conic",layers:[
+ window.PLATES["united-states-overseas-west-1865-1914"]={id:"united-states-overseas-west-1865-1914",title:"The United States: West, 1898 and Panama, 1865-1914",head:"Imperialism / United States",folio:"116-117",viewer:"imperial/1898/ch-united-states-overseas",figures:[{caption:"Continental consolidation and overseas empire",share:0.76,extent:[[-170,5],[-60,62]],projection:"conic",layers:[
   {id:"usa",type:"area",hist:{year:1914,names:["United States"]},colour:USA,tier:"core",legend:"United States, 1914"},
   {id:"alaska",type:"point",symbol:"port",at:[-149.90,61.22],name:"Alaska",labelPos:"e",tag:{text:"1867",colour:"#f1c75b"}},
   {id:"plains",type:"area",polygon:plains,smooth:false,clipToLand:true,pattern:"hatch",colour:IND,legend:"Plains wars / reservation pressure zone"},
-  {id:"rail1",type:"route",style:"road",weight:2.5,colour:ROAD,legend:"Transcontinental railways",path:[[-74.00,40.71],[-87.63,41.88],[-96.0,41.3],[-111.89,40.76],[-122.42,37.77]]},
+  {id:"rail1",type:"route",style:"road",weight:2.5,colour:ROAD,legend:"Transcontinental railways",path:[[-95.94,41.26],[-105.0,41.2],[-112.55,41.62],[-121.49,38.58],[-122.42,37.77]]},
   {id:"rail2",type:"route",style:"dotted",weight:2.2,colour:ROAD,path:[[-90.05,29.95],[-97.74,30.27],[-112.07,33.45],[-118.24,34.05]]},
   {id:"overseas",type:"route",style:"dashed",weight:2.4,colour:USA,legend:"1898 and canal power",path:[[-77.04,38.90],[-82.37,23.11],[-66.10,18.45],[-79.52,8.98],[120.98,14.60]]},
-  {id:"little-bighorn",type:"point",symbol:"battle",at:[-107.43,45.57],name:"Little Bighorn",labelPos:"e",tag:{text:"1876",colour:"#e8806a"}},
-  {id:"wounded",type:"point",symbol:"battle",at:[-102.36,43.14],name:"Wounded Knee",labelPos:"e",tag:{text:"1890",colour:"#e8806a"}},
+  {id:"little-bighorn",type:"point",symbol:"battle",at:[-107.43,45.57],name:"Little Bighorn",labelPos:"n",tag:{text:"1876",colour:"#e8806a"}},
+  {id:"wounded",type:"point",symbol:"battle",at:[-102.36,43.14],name:"Wounded Knee",labelPos:"s",tag:{text:"1890",colour:"#e8806a"}},
   {id:"hawaii",type:"point",symbol:"port",at:[-157.86,21.31],name:"Hawaii",labelPos:"e",tag:{text:"1898",colour:"#f1c75b"}},
   {id:"cuba",type:"point",symbol:"battle",at:[-82.37,23.11],name:"Cuba",labelPos:"w",tag:{text:"1898",colour:"#e8806a"}},
   {id:"puerto-rico",type:"point",symbol:"port",at:[-66.10,18.45],name:"Puerto Rico",labelPos:"e",tag:{text:"1898",colour:"#f1c75b"}},
   {id:"manila",type:"point",symbol:"battle",at:[120.98,14.60],name:"Philippines",labelPos:"e",tag:{text:"1898",colour:"#e8806a"}},
   {id:"panama",type:"point",symbol:"port",at:[-79.52,8.98],name:"Panama Canal",labelPos:"e",tag:{text:"1904-14",colour:"#f1c75b"}}
- ],legend:{position:"bottom-left",columns:1}},{caption:"From continental to overseas power",kind:"diagram",share:0.24,diagram:{height:0.60,nodes:[{id:"west",label:"railways and settler expansion",x:0.30,y:0.12,w:0.36,h:0.13,colour:USA,strong:true},{id:"wars",label:"Indian Wars: Little Bighorn to Wounded Knee",x:0.72,y:0.12,w:0.36,h:0.13,colour:IND},{id:"spanish",label:"1898: Cuba, Puerto Rico, Philippines, Hawaii",x:0.50,y:0.43,w:0.68,h:0.13,colour:WAR,strong:true},{id:"canal",label:"Panama Canal Zone, 1904-14",x:0.50,y:0.73,w:0.40,h:0.13,colour:USA}],arrows:[{id:"a1",from:"west",to:"spanish"},{id:"a2",from:"spanish",to:"canal"}]}}],text:{intro:"The United States closes continental conquest and projects power overseas in 1898 and through Panama.",sections:[{heading:"United States",entries:[{date:"1867-1890",text:"Alaska, railways, the Plains wars and Wounded Knee frame continental expansion after the Civil War.",refs:["usa","alaska","rail1","rail2","plains","little-bighorn","wounded"]},{date:"1898-1914",text:"War with Spain, Hawaii, the Philippines, Puerto Rico and the Panama Canal Zone make the United States an overseas and canal power.",refs:["overseas","hawaii","cuba","puerto-rico","manila","panama"]}]}]},sources:["Penguin Atlas Vol. 2 pp. 116-117; historical-basemaps world_1914"]};
+ ],legend:{position:"bottom-left",columns:1}},{caption:"From continental to overseas power",kind:"diagram",share:0.24,diagram:{height:0.60,nodes:[{id:"west",label:"railways and settler expansion",x:0.30,y:0.12,w:0.36,h:0.13,colour:USA,strong:true},{id:"wars",label:"Indian Wars: Little Bighorn to Wounded Knee",x:0.72,y:0.12,w:0.36,h:0.13,colour:IND},{id:"spanish",label:"1898: Cuba, Puerto Rico, Hawaii; Philippines / Manila in Pacific",x:0.50,y:0.43,w:0.68,h:0.13,colour:WAR,strong:true},{id:"canal",label:"Panama Canal Zone, 1904-14",x:0.50,y:0.73,w:0.40,h:0.13,colour:USA}],arrows:[{id:"a1",from:"west",to:"spanish"},{id:"a2",from:"spanish",to:"canal"}]}}],text:{intro:"The United States closes continental conquest and projects power overseas in 1898 and through Panama.",sections:[{heading:"United States",entries:[{date:"1867-1890",text:"Alaska, railways, the Plains wars and Wounded Knee frame continental expansion after the Civil War.",refs:["usa","alaska","rail1","rail2","plains","little-bighorn","wounded","west","wars"]},{date:"1898-1914",text:"War with Spain, Hawaii, the Philippines, Puerto Rico and the Panama Canal Zone make the United States an overseas and canal power; the Philippines/Manila are noted in the diagram rather than joined by a misleading Pacific line.",refs:["hawaii","cuba","puerto-rico","panama","spanish","canal"]}]}]},sources:["Penguin Atlas Vol. 2 pp. 116-117; historical-basemaps world_1914"]};
 })();

diff --git a/atlas/plates/russia-japan-asia-expansion-1865-1910.js b/atlas/plates/russia-japan-asia-expansion-1865-1910.js
@@ -8,12 +8,12 @@
   {id:"central",type:"route",style:"dotted",weight:2.5,colour:RUS,legend:"Russian Central Asia: Tashkent-Samarkand-Merv",path:[[69.24,41.30],[66.96,39.65],[62.18,37.66]]},
   {id:"war-route",type:"route",style:"dashed",weight:2.5,colour:WAR,legend:"Russo-Japanese War theatre",path:[[121.25,38.80],[123.43,41.80],[129.5,34.5]]},
   {id:"taiwan",type:"point",symbol:"port",at:[121.0,23.7],name:"Taiwan",labelPos:"e",tag:{text:"1895",colour:"#f1c75b"}},
-  {id:"korea",type:"point",symbol:"capital",at:[126.98,37.57],name:"Korea annexed",labelPos:"e",tag:{text:"1910",colour:"#f1c75b"}},
+  {id:"korea",type:"point",symbol:"capital",at:[126.98,37.57],name:"Korea 1910",labelPos:"ne"},
   {id:"port-arthur",type:"point",symbol:"battle",at:[121.25,38.80],name:"Port Arthur",labelPos:"w",tag:{text:"1904",colour:"#e8806a"}},
   {id:"mukden",type:"point",symbol:"battle",at:[123.43,41.80],name:"Mukden",labelPos:"e",tag:{text:"1905",colour:"#e8806a"}},
-  {id:"tsushima",type:"point",symbol:"battle",at:[129.5,34.5],name:"Tsushima",labelPos:"e",tag:{text:"1905",colour:"#e8806a"}},
+  {id:"tsushima",type:"point",symbol:"battle",at:[129.5,34.5],name:"Tsushima",labelPos:"s"},
   {id:"merv",type:"point",symbol:"treaty",at:[62.18,37.66],name:"Merv",labelPos:"s",tag:{text:"1884",colour:"#f1c75b"}},
-  {id:"samarkand",type:"point",symbol:"capital",at:[66.96,39.65],name:"Samarkand",labelPos:"n",tag:{text:"1868",colour:"#f1c75b"}},
-  {id:"tashkent",type:"point",symbol:"capital",at:[69.24,41.30],name:"Tashkent",labelPos:"e",tag:{text:"1865",colour:"#f1c75b"}}
+  {id:"samarkand",type:"point",symbol:"capital",at:[66.96,39.65],name:"Samarkand",labelPos:"w"},
+  {id:"tashkent",type:"point",symbol:"capital",at:[69.24,41.30],name:"Tashkent",labelPos:"n",tag:{text:"1865",colour:"#f1c75b"}}
  ],legend:{position:"bottom-left",columns:1}},{caption:"Japan's turn",kind:"diagram",share:0.24,diagram:{height:0.58,nodes:[{id:"unequal",label:"unequal treaties and forced opening",x:0.28,y:0.10,w:0.35,h:0.13,colour:CHI},{id:"meiji",label:"Meiji state, army, industry",x:0.72,y:0.10,w:0.32,h:0.13,colour:JPN,strong:true},{id:"tai",label:"Taiwan 1895",x:0.32,y:0.43,w:0.25,h:0.13,colour:JPN},{id:"kor",label:"Korea 1910",x:0.68,y:0.43,w:0.25,h:0.13,colour:JPN},{id:"power",label:"great-power status after 1905",x:0.50,y:0.73,w:0.48,h:0.13,colour:WAR}],arrows:[{id:"a1",from:"unequal",to:"meiji"},{id:"a2",from:"meiji",to:"tai"},{id:"a3",from:"meiji",to:"kor"},{id:"a4",from:"tai",to:"power"},{id:"a5",from:"kor",to:"power"}]}} ],text:{intro:"Russia pushes across Central Asia and Siberia while Japan moves from forced opening to empire.",sections:[{heading:"Asia",entries:[{date:"1865-1884",text:"Russia takes Tashkent, Samarkand and Merv; the Trans-Siberian Railway ties European Russia to the Pacific.",refs:["russia","qing","central","transsib","tashkent","samarkand","merv"]},{date:"1895-1910",text:"Japan acquires Taiwan, defeats Russia at Port Arthur, Mukden and Tsushima, and annexes Korea.",refs:["japan","war-route","taiwan","korea","port-arthur","mukden","tsushima","unequal","meiji","tai","kor","power"]}]}]},sources:["Penguin Atlas Vol. 2 pp. 111-117; historical-basemaps world_1914"]};
 })();
